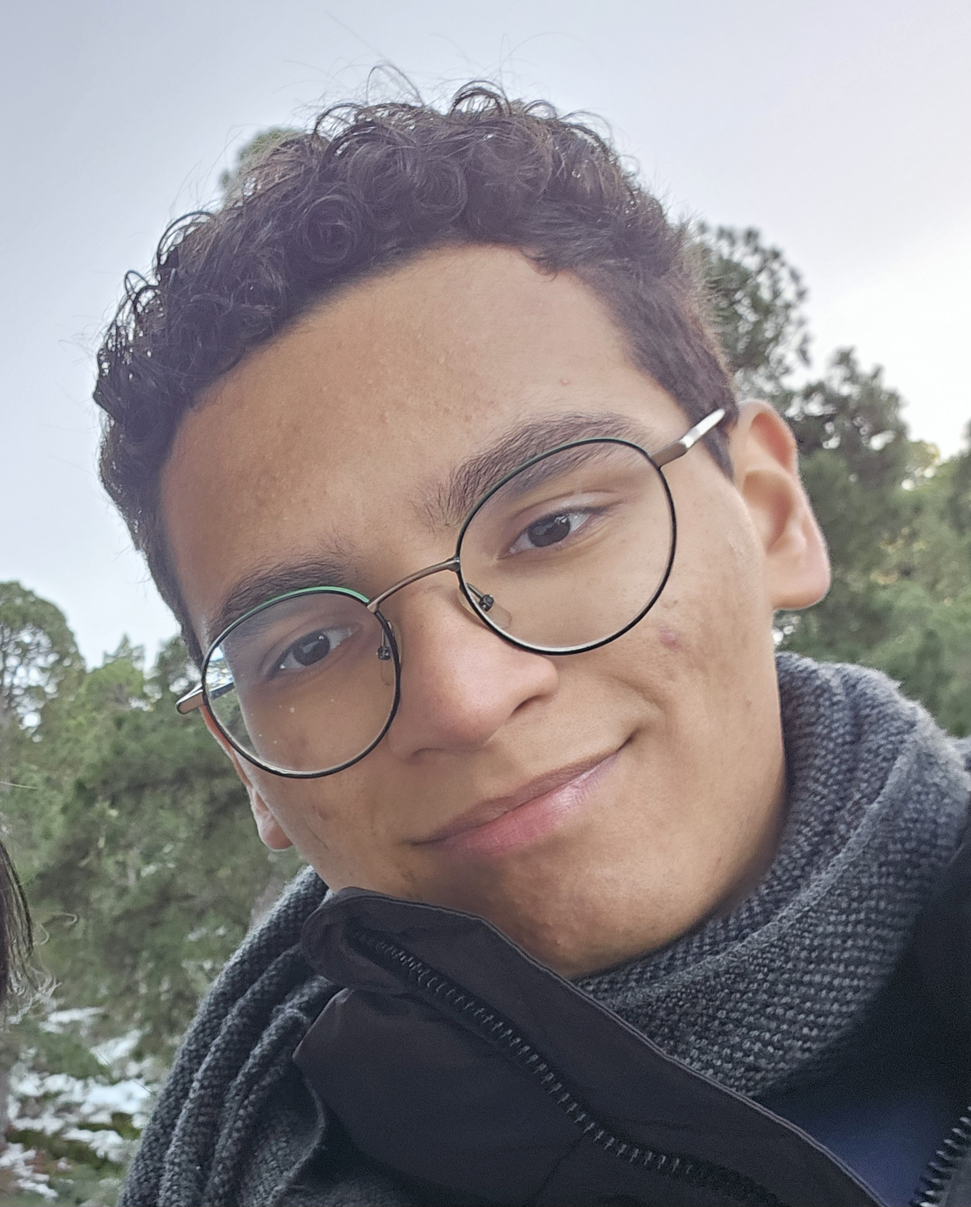
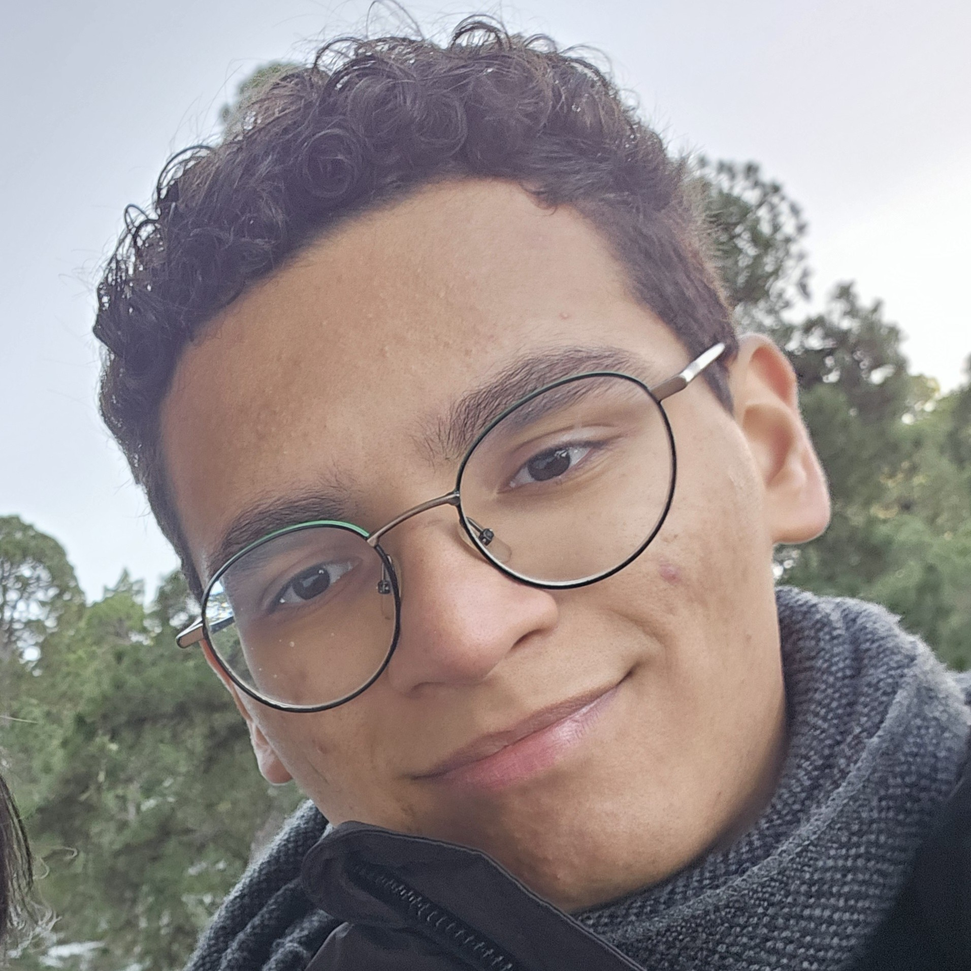
Apartado Sobre Mi Completo

diff --git a/js/renders/renderHome.js b/js/renders/renderHome.js
@@ -15,7 +15,7 @@ const Portada = `
 
     <div class="w-full bg-[url(../imgs/fotoPortada.jpeg)] bg-cover bg-center">    
         <div class="flex flex-col justify-center items-center gap-6 h-screen w-full pb-[10vh] bg-black/40 text-white">
-            <p id="titulo" class="w-2/3 text-center text-3xl text-shadow-lg/20"></p>
+            <p id="tituloPortada" class="w-2/3 text-center text-3xl text-shadow-lg/20"></p>
             <div class="w-2/3 h-[2px] bg-white rounded-full"></div>
             <p id="miniDesc" class="w-2/3 text-justify text-xl"></p>
 
@@ -30,20 +30,35 @@ const Portada = `
     </div>
 `;
 
+const SobreMi = `
+    <div class="w-full py-8 bg-[#EFF1ED] flex flex-col justify-center items-center">
+        <h1 id="tituloSobre" class="text-center text-3xl font-medium px-6 mb-4"></h1>
+        <div class="w-6/10 h-[3px] rounded-full bg-[#373D20] mb-6"></div>
+
+        <div>
+            <img src="${misDatos.fotoPerfil}" class="w-5/10 rounded-r-full float-left mr-4 mb-4 shadow-xl shadow-[#373D20]/25 border-y border-r border-[#373D20]">
+            <p id="descPersonal" class="text-justify text-lg px-4"></p>
+        </div>
+    </div>
+`;
+
 export function generarHome() {
     document.getElementById("app").outerHTML = `
         <div id="app" class="flex flex-col justify-center items-center">
             ${Portada}
+            ${SobreMi}
         </div>
     `;
 }
 
 export function llenarHome(idioma) {
-    document.getElementById("titulo").innerHTML = UI.titulos.home[idioma] + `<span id="typify"></span>`;
+    document.getElementById("tituloPortada").innerHTML = UI.titulos.home[idioma] + `<span id="typify"></span>`;
     document.getElementById("miniDesc").innerHTML = misDatos.miniDesc[idioma];
     document.getElementById("scroll").innerText = UI.paginas.home.scroll[idioma];
+    document.getElementById("tituloSobre").innerText = UI.paginas.home.tituloSobre[idioma];
+    document.getElementById("descPersonal").innerText = misDatos.descPersonal[idioma];
     
-    const typingText = Typify('#typify', {
+    Typify('#typify', {
         text: misDatos.adjetivosPersonales[idioma],
         delay: 100,
         loop: true,

diff --git a/js/UI.js b/js/UI.js
@@ -37,6 +37,10 @@ export const UI = {
             scroll : {
                 es : "Desliza",
                 en : "Scroll"
+            },
+            tituloSobre : {
+                es : "Sobre Mi",
+                en : "About Me"
             }
         }
     }
